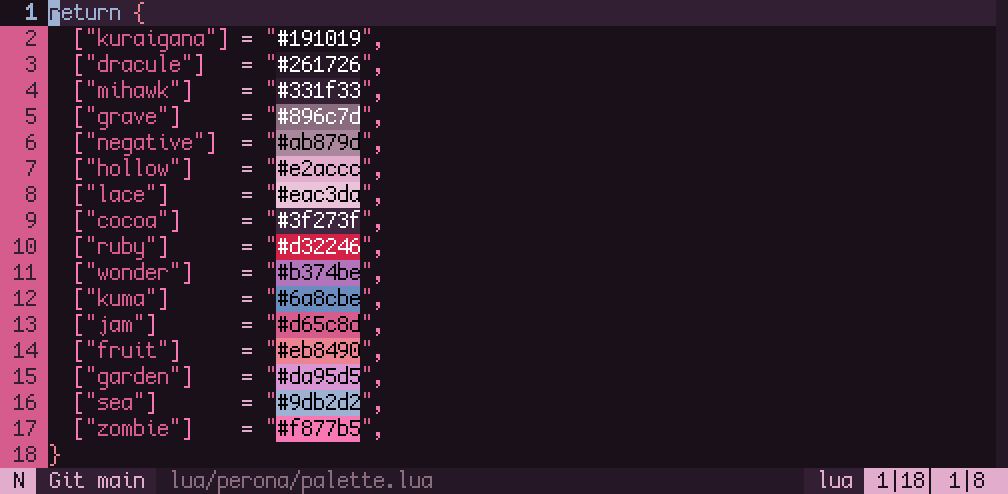
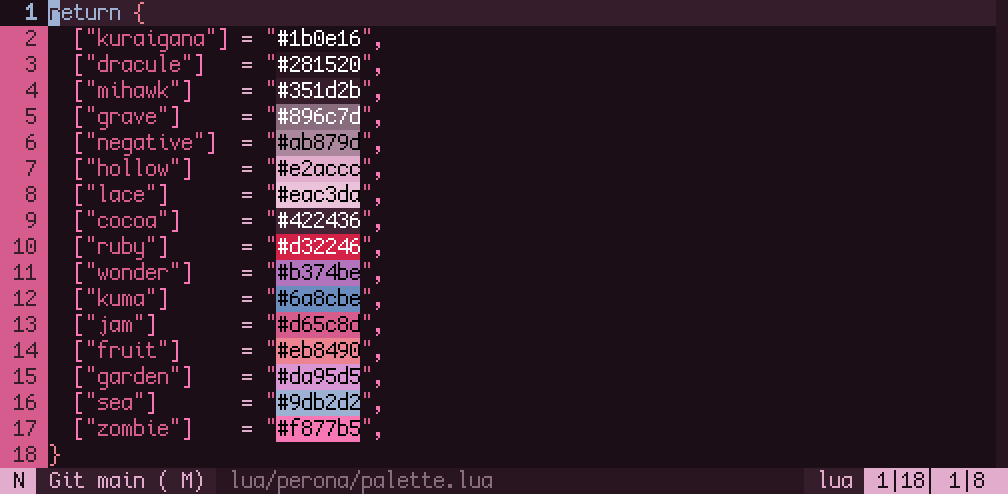
warmer

diff --git a/README.md b/README.md
@@ -21,7 +21,7 @@ a colorscheme for neovim inspired by ghost princess perona from *one piece*. bui
 
 | ansi      | bright    |
 | --------- | --------- |
-| `#191019` | `#47333f` |
+| `#1b0e16` | `#47333f` |
 | `#b31a3b` | `#d32246` |
 | `#b374be` | `#da95d5` |
 | `#e65667` | `#eb8490` |
